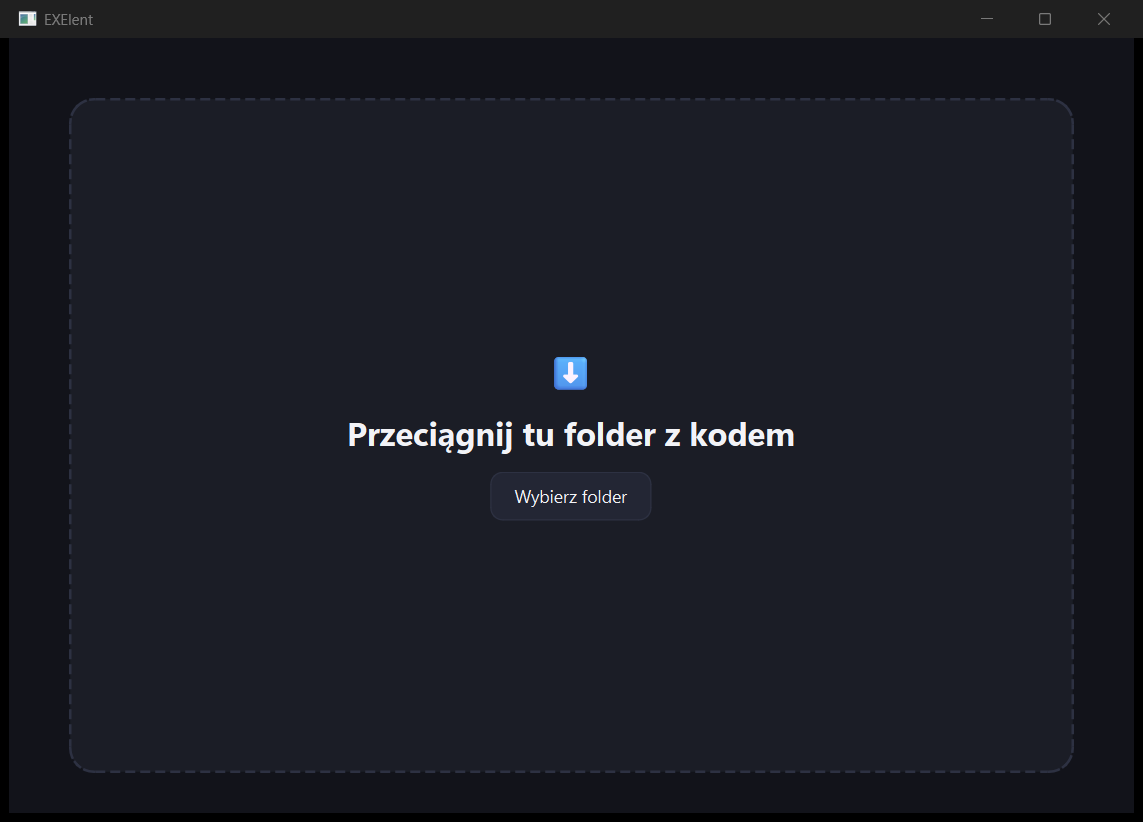
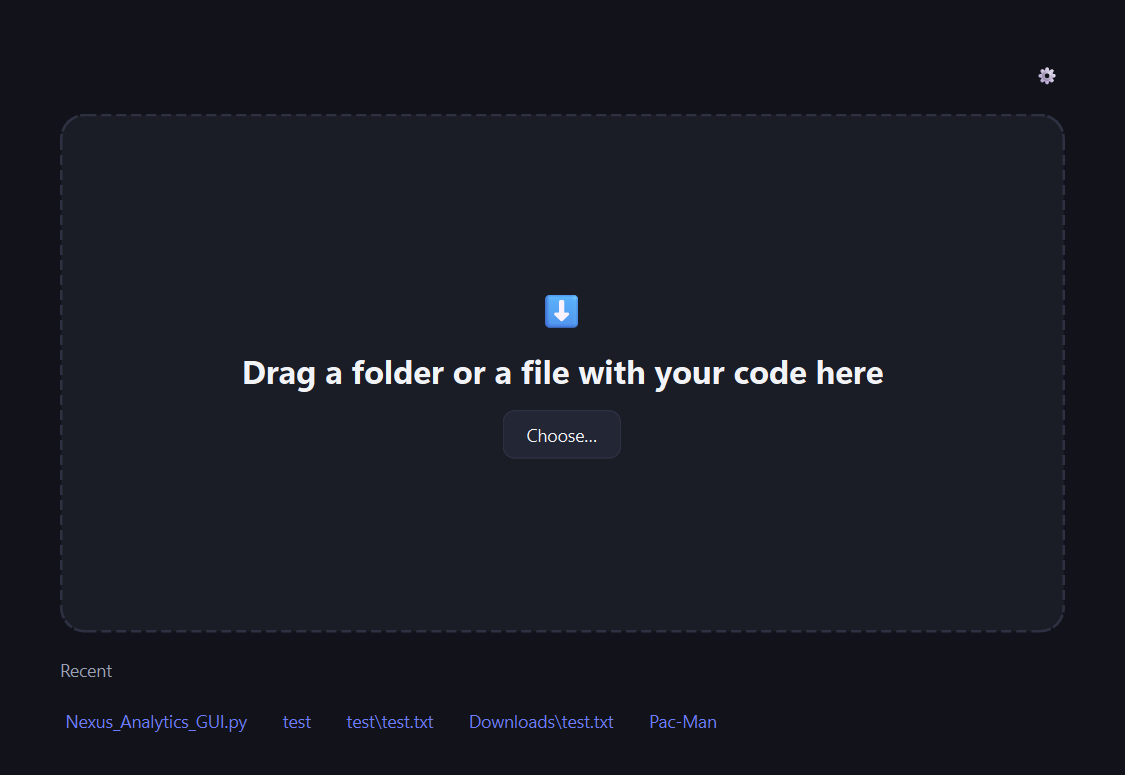
docs: angielskie screeny wszystkich ekranów + zaktualizowane linki
- screenshot.png: ekran drop (EN)
- screenshot_review.png: ekran przeglądu analizy
- screenshot_building.png: postęp budowania
- screenshot_build.png: ekran sukcesu
- README: dodane screeny review/build, poprawione linki GitHub

Claude-Session: https://claude.ai/code/session_01E8TjG4YAmoVEWaawQpNMkk

diff --git a/README.md b/README.md
@@ -8,10 +8,23 @@ share the **whole folder**, including its libraries and data. The recipient
 double-clicks the `.exe` inside — they do not install Python or open a terminal,
 they do not have to know what any of this is.
 
-![EXElent](docs/screenshot.png)
+![EXElent — drop your code](docs/screenshot.png)
 
 *The interface follows your Windows language: Polish and English are both
 built in.*
+
+### Review what EXElent understood
+
+![Review screen](docs/screenshot_review.png)
+
+Every guess is visible and editable before the build starts: entry point,
+GUI vs console, output layout, dependencies.
+
+### Build
+
+![Building](docs/screenshot_building.png)
+
+![Build complete](docs/screenshot_build.png)
 
 ## Who this is for
 
@@ -27,7 +40,7 @@ over email or chat, and EXElent handles it without you renaming anything.
 
 ## Download and run
 
-1. Go to the [releases page](https://github.com/exelent-app/exelent/releases/latest).
+1. Go to the [releases page](https://github.com/PerlessMtFuji/EXElent/releases/latest).
 2. Download `EXElent.exe`.
 3. Double-click it. There is nothing to install.
 
@@ -162,7 +175,7 @@ GitHub. Using that button is the most useful thing you can do, because the
 report carries the log.
 
 You can also open an issue by hand at
-[github.com/exelent-app/exelent](https://github.com/exelent-app/exelent/issues).
+[github.com/PerlessMtFuji/EXElent](https://github.com/PerlessMtFuji/EXElent/issues).
 
 ## License
 
